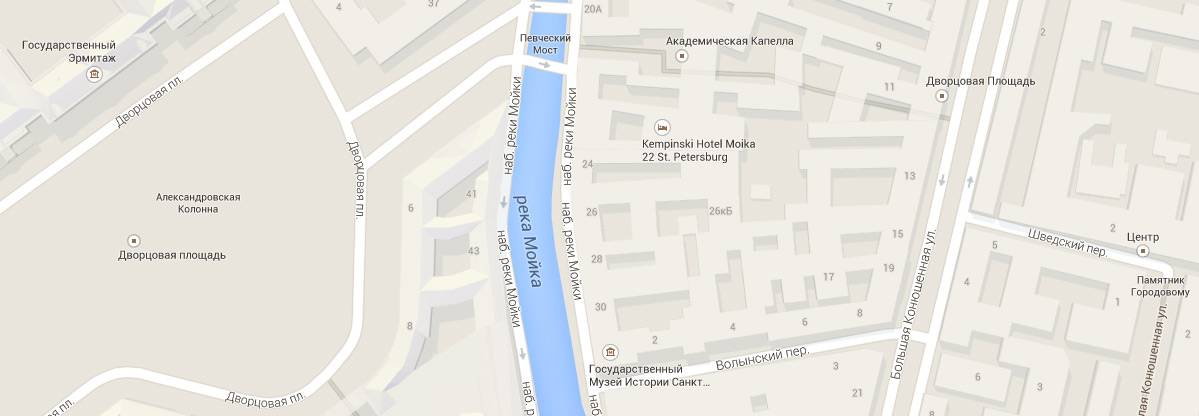
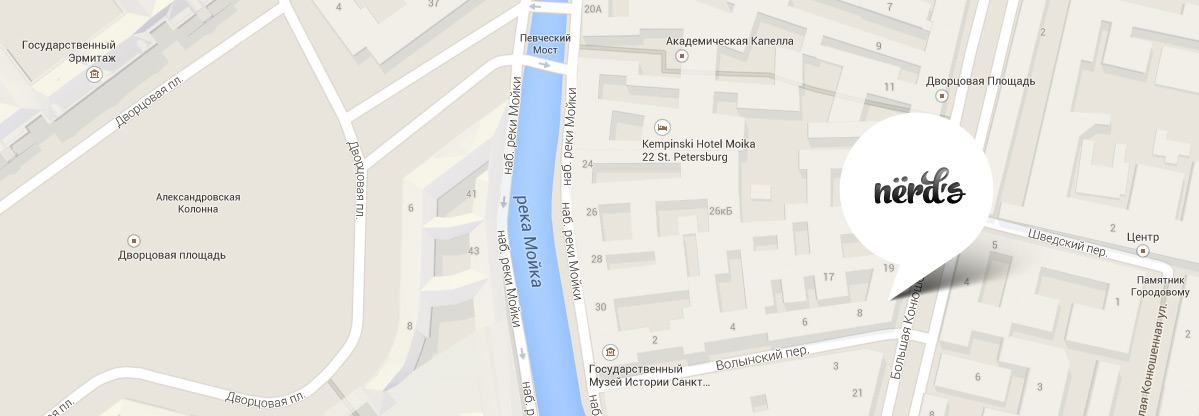
Исправил

Changed region(s): [[0.6789, 0.25, 0.8641, 0.7188]]

diff --git a/catalog.html b/catalog.html
@@ -33,7 +33,9 @@
             </ul>
           </nav>
           <div class="cart">
-            <a href="#">Корзина</a>
+            <a href="#">Корзина
+              <span class="icon-basket"></span>
+            </a>
           </div>
         </div>
         <p class="description-header">
@@ -153,27 +155,26 @@
         <!-- Не знаю как правильно вставить карту. Пока разметил как ссылку -->
         <div class="container clearfix">
           <section class="map-contacts">
-            <b>Nerds Design Studio</b>
-            <p>
+            <b class="map-contacts-header">Nёrds Design Studio</b>
+            <p class="map-contacts-paragraph">
               191186, Санкт-Петербург,<br>
-              ул. Б. Конюшенная, д. 19/8
+              ул. Б. Конюшенная, д.19/8
             </p>
-            <p>тел. +7 (812) 275-75-75</p>
-            <a href="#" class="btn">Напишите нам</a>
+            <p class="map-contacts-paragraph">тел. +7 (812) 275-75-75</p>
+            <a href="#" class="btn-contacts">Напишите нам</a>
           </section>
+          <img src="img/map-point.png" alt="" class="map-point">
         </div>
       </div>
-      <div class="container">
-        <div class="footer-about clearfix">
-          <div class="footer-social">
-            <a class="social-btn social-btn-vk" href="#">Вконтакте</a>
-            <a class="social-btn social-btn-fb" href="#">Фейсбук</a>
-            <a class="social-btn social-btn-inst" href="#">Инстаграм</a>
-          </div>
-          <div class="discont">
-              <p class="discont-offer-1">Давайте дружить, это выгодно!</p>
-              <p class="discont-offer-2">Скидка 10% для друзей из социальных сетей.</p>
-          </div>
+      <div class="container clearfix">
+        <div class="footer-social">
+          <a class="social-btn social-btn-vk" href="#">Вконтакте</a>
+          <a class="social-btn social-btn-fb" href="#">Фейсбук</a>
+          <a class="social-btn social-btn-inst" href="#">Инстаграм</a>
+        </div>
+        <div class="discont">
+            <p class="discont-paragraph1">Давайте дружить, это выгодно!</p>
+            <p class="discont-paragraph2">Скидка 10% для друзей из социальных сетей.</p>
         </div>
       </div>
     </footer>

diff --git a/css/style.css b/css/style.css
@@ -131,6 +131,17 @@ h2 {
   background:#fb565a;
   border-radius:3px;
 }
+
+.slide .btn:hover {
+  background-color: #d6494d;
+  border: 1px solid #d6494d;
+}
+
+.slide .btn:active {
+  background-color: #b63538;
+  border: 1px solid #b63538;
+  box-shadow: inset 0 3px 0 0 #9b2d30;
+}
 .slide:nth-child(1) {
   background-image:url("../img/slider-1.png");
   background-repeat:no-repeat;
@@ -302,6 +313,7 @@ h2 {
   width: 240px;
   float: left;
   margin-right: 79px;
+  margin-bottom: 0;
 }
 
 .features-item:last-child {
@@ -314,7 +326,7 @@ h2 {
   font-weight: 500;
   text-transform: uppercase;
   color: #000000;
-  padding-top: 4px;
+  /*padding-top: 4px;*/
 }
 
 .features-paragraph {
@@ -419,7 +431,7 @@ border-radius: 3px;
 .studio {
   font-size: 36px;
   line-height: 36px;
-  width: 525px;
+  /*width: 525px;*/
 
 }
 
@@ -537,11 +549,11 @@ border-radius: 3px;
   /*opacity: 0.9;*/
   /*Временно*/
   width: 202px;
-  height: 215px;
-  float: left;
+  /*height: 195px;*/
+  /*float: left;*/
   background-color: #ffffff;
   padding-top: 23px;
-  /*padding-bottom: 20px;*/
+  padding-bottom: 20px;
   padding-left: 20px;
   padding-right: 25px;
   text-align: left;
@@ -582,6 +594,17 @@ border-radius: 3px;
   margin-top: 31px;
 }
 
+.btn-contacts:hover {
+  background-color: #d6494d;
+  border: 1px solid #d6494d;
+}
+
+.btn-contacts:active {
+  background-color: #b63538;
+  border: 1px solid #b63538;
+  box-shadow: inset 0 3px 0 0 #9b2d30;
+}
+
 .map-point {
   float: right;
   width: 230px;
@@ -606,6 +629,7 @@ border-radius: 3px;
   padding-top: 30px;
   padding-bottom: 30px;
   margin-top: 30px;
+  position: relative;
 }
 
 .social-btn {
@@ -628,6 +652,7 @@ border-radius: 3px;
 
 .social-btn:active {
   background-color: #d6494d;
+  box-shadow: inset 0 3px 0 0 #b63e42;
 }
 
 .social-btn-vk {
@@ -700,7 +725,7 @@ border-radius: 3px;
   width: 700px;
   margin-left: auto;
   margin-right: auto;
-  padding-top: 15px;
+  padding-top: 41px;
   padding-bottom: 90px;
   text-align: center;
   font-size: 40px;

diff --git a/index.html b/index.html
@@ -106,7 +106,7 @@
       <section class="about container clearfix">
         <div class="about-left">
           <h1 class="studio">
-            Мы-маленькая, но гордая
+            Мы — маленькая, но гордая
             дизайн-студия из Краснодара.
           </h1>
           <p class="studio-paragraph">
@@ -158,12 +158,13 @@
             <p class="map-contacts-paragraph">тел. +7 (812) 275-75-75</p>
             <a href="#" class="btn-contacts">Напишите нам</a>
           </section>
-          <img src="img/map-point.png" alt="" class="map-point">
+          <!-- <img src="img/map-point.png" alt="" class="map-point"> -->
         </div>
       </div>
       <div class="container clearfix">
         <div class="footer-social">
-          <a class="social-btn social-btn-vk" href="#">Вконтакте</a>
+          <a class="social-btn social-btn-vk"
+          href="#">Вконтакте</a>
           <a class="social-btn social-btn-fb" href="#">Фейсбук</a>
           <a class="social-btn social-btn-inst" href="#">Инстаграм</a>
         </div>
